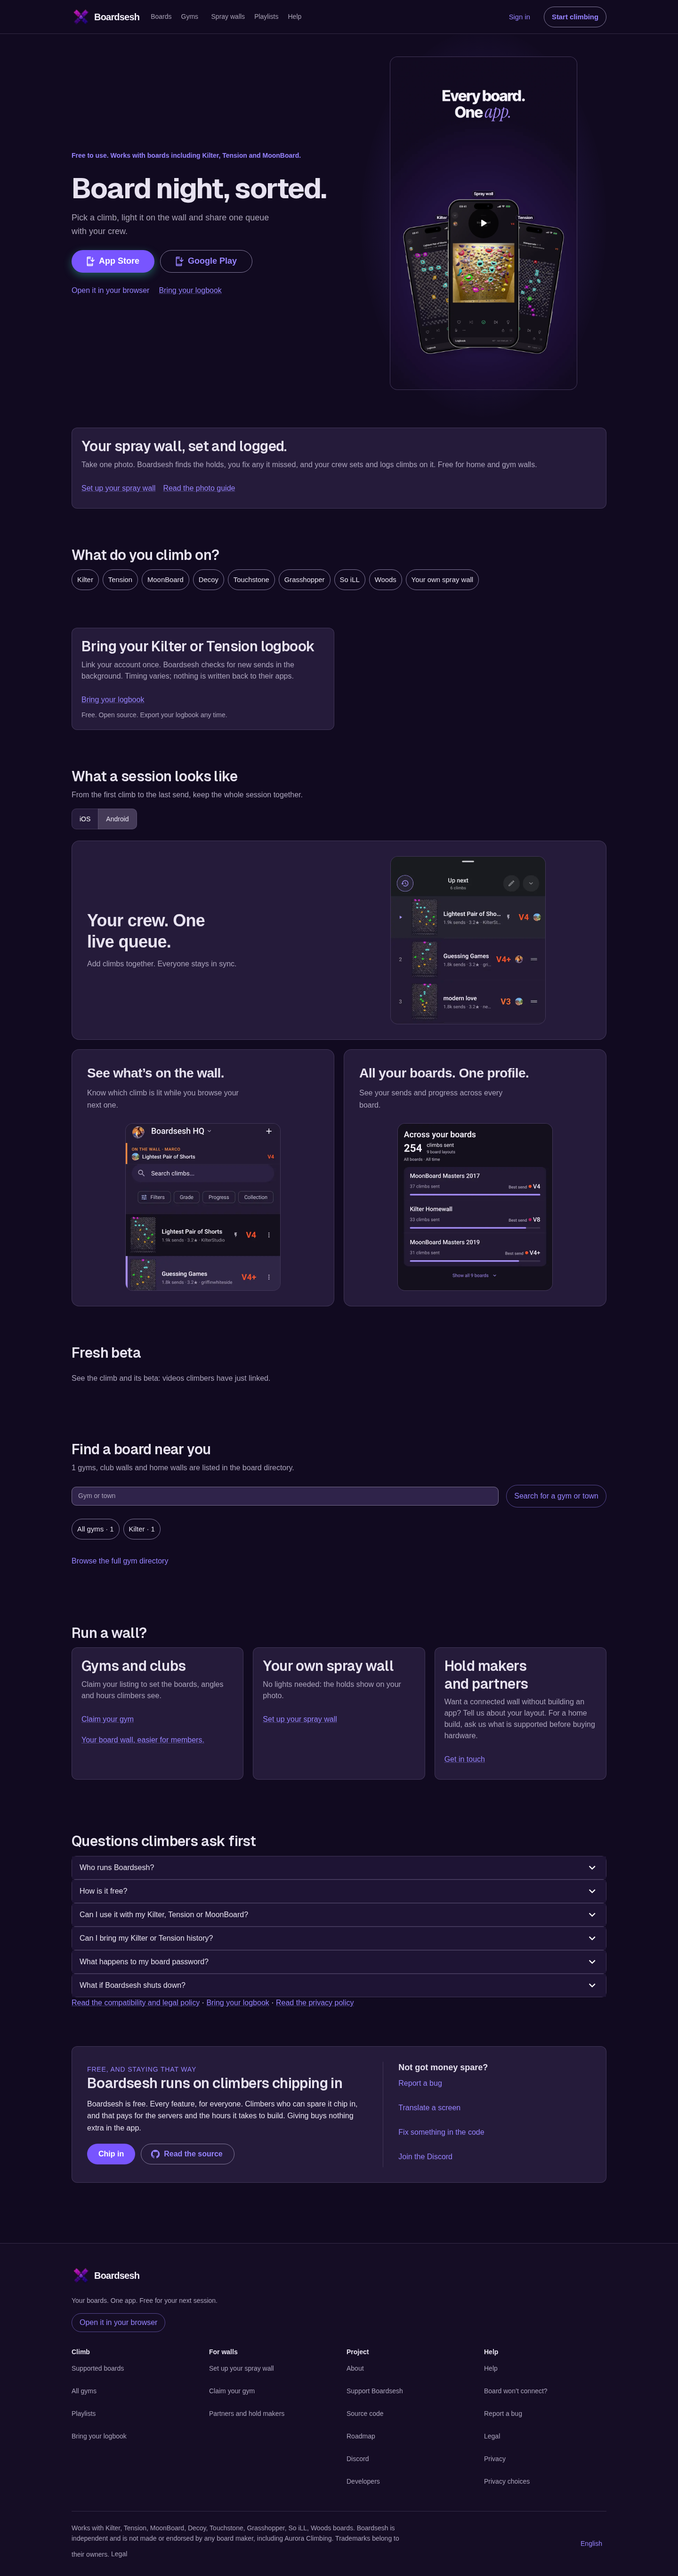
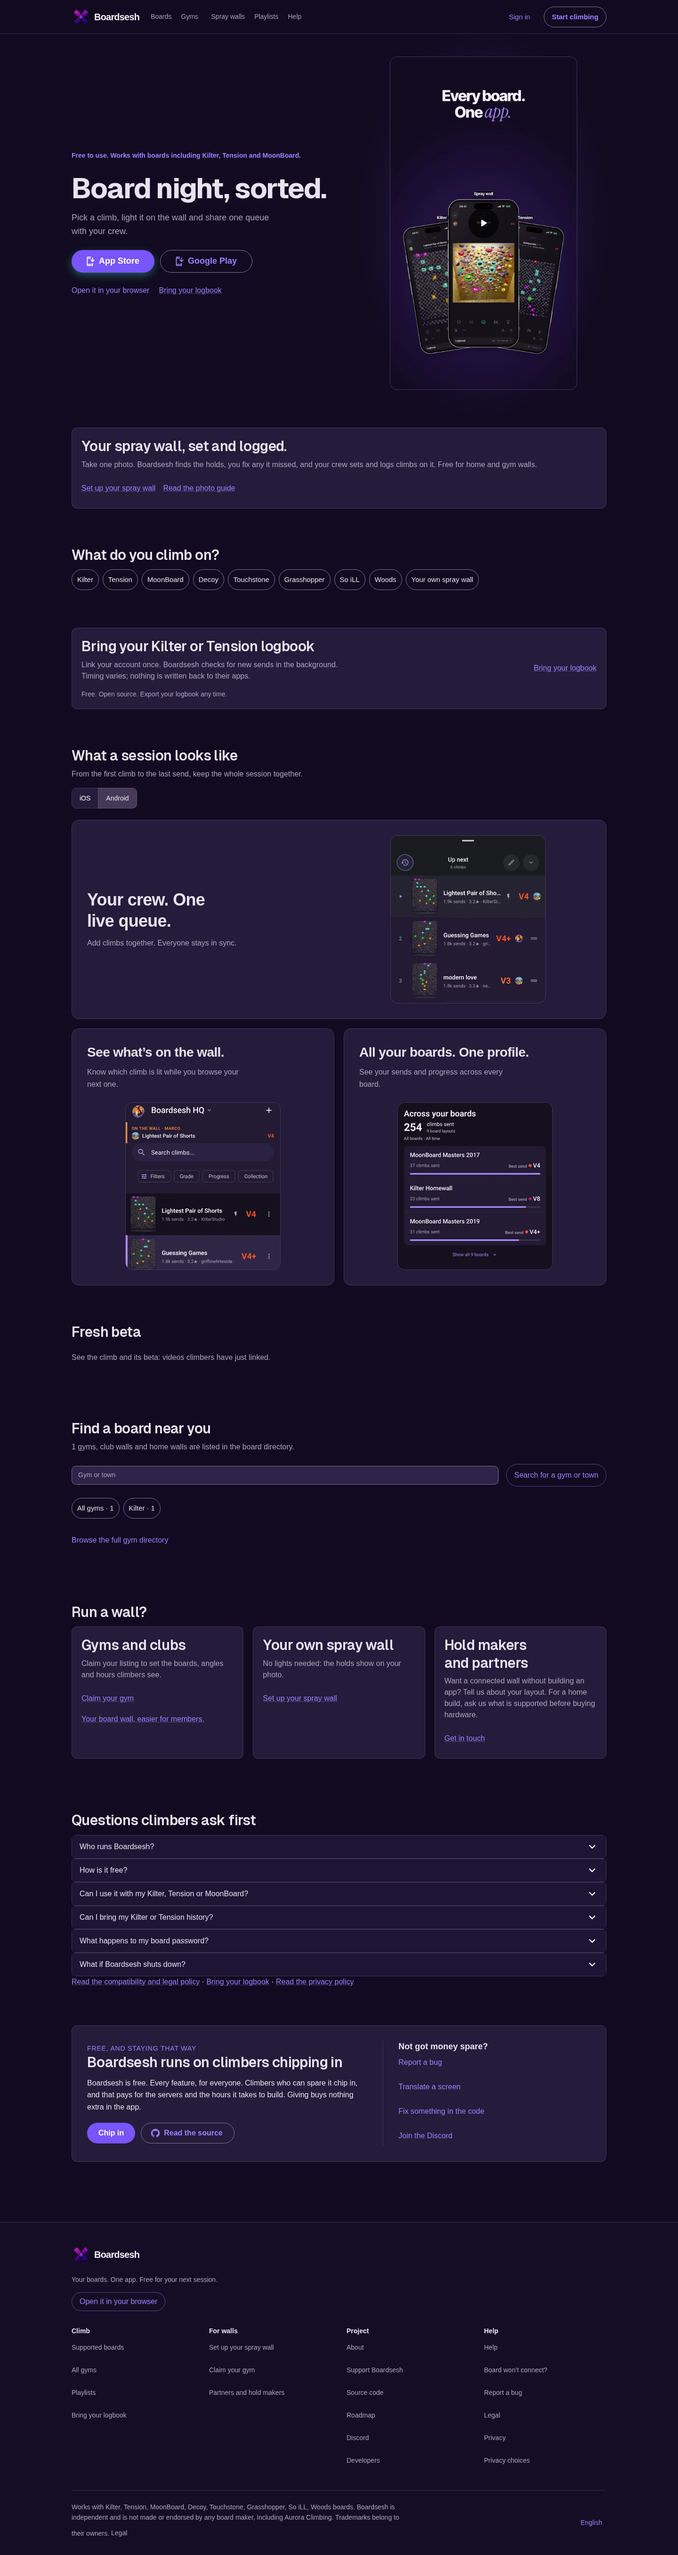
fix(web): complete the logbook import band

diff --git a/packages/web/app/home-page-content.tsx b/packages/web/app/home-page-content.tsx
@@ -196,18 +196,16 @@ export default function HomePageContent({
           />
         </Box>
       </PageSection>
-      <Box className={styles.journeyGrid}>
-        <PageCard>
-          <PageSection title={website('importTitle')} lead={website('importBody')}>
-            <MuiLink component={LocaleLink} href="/bring-your-logbook" sx={LINK_TARGET}>
-              {website('importLink')}
-            </MuiLink>
-            <Typography variant="body2" color="text.secondary">
-              {website('trust')}
-            </Typography>
-          </PageSection>
-        </PageCard>
-      </Box>
+      <PageCard>
+        <PageSection title={website('importTitle')} lead={website('importBody')} className={styles.importBand}>
+          <MuiLink component={LocaleLink} href="/bring-your-logbook" sx={LINK_TARGET} className={styles.importAction}>
+            {website('importLink')}
+          </MuiLink>
+          <Typography variant="body2" color="text.secondary">
+            {website('trust')}
+          </Typography>
+        </PageSection>
+      </PageCard>
       {featureStrip}
       <HomeRecentBetaSection initialRecentBeta={initialRecentBeta} />
       {heroProof ? (

diff --git a/packages/web/app/home-page-content.module.css b/packages/web/app/home-page-content.module.css
@@ -132,10 +132,25 @@
   left: 23.5%;
 }
 
-.journeyGrid {
+.importBand {
   display: grid;
-  grid-template-columns: repeat(2, minmax(0, 1fr));
-  gap: var(--spacing-5);
+  grid-template-columns: minmax(0, 1fr) auto;
+  column-gap: var(--spacing-10);
+  align-items: center;
+}
+
+.importBand > h2,
+.importBand > p {
+  grid-column: 1;
+}
+
+.importBand > p {
+  max-width: 64ch;
+}
+
+.importAction {
+  grid-column: 2;
+  grid-row: 1 / 4;
 }
 
 .wallGrid {
@@ -198,7 +213,10 @@
     gap: var(--spacing-2) var(--spacing-4);
   }
 
-  .journeyGrid,
+  .importBand {
+    display: block;
+  }
+
   .wallGrid {
     grid-template-columns: minmax(0, 1fr);
   }

diff --git a/docs/www-refresh/screenshots/README.md b/docs/www-refresh/screenshots/README.md
@@ -76,3 +76,5 @@ The final compiled [populated-fixture homepage](final-public-review-homepage-bud
 Application source `6189e0f108cd39acaf0ad5119ff46b64bd566541` passes all 65 required repository typecheck/build tasks. Seven focused hero, video, About, preview, shell and locale suites pass 262 tests. The existing public-phone suite passes twenty cases; the two real-pointer cases pass separately after explicit reduced-motion emulation. The final [compiled homepage fixture](visual-restoration-homepage-budget.json) passes at 37,281 gzip bytes with twenty beta rows against 60,000 bytes.
 
 The new guards were tested against broken committed-source variants and then restored. Removing About's preview resources produces five failures for missing translated platform-group names; restoring the selector passes all five. Removing the desktop layout-centering fix makes the pointer test fail at hover because the moving target is intercepted by the video; restoring the fix passes both pointer cases. The original source bytes were restored in finally blocks and the working tree was clean afterward. Astra independently reviewed the actual code, pointer mechanism, supported Playwright API and current-main integration.
+
+The final Home full-page captures also include Astra's approved full-width logbook band. [Measured layout](import-band-geometry.json) confirms its width matches the hero at 390, 844 and 1440px, with the action right of the copy on desktop and heading/body/link/assurance preserved in phone order. German tablet text also fits. This replaces the visually orphaned half-width card without changing copy or destination. About captures remain unchanged.

diff --git a/docs/www-refresh/decisions.md b/docs/www-refresh/decisions.md
@@ -125,3 +125,5 @@ The owner rejected the Home and About after-images at fcd4a5d821 and explicitly 
 - After the owner merged #7879, #7882 and #7885 and retargeted #7883 to main, Astra recommended preserving the current root tip and using a three-way squash integration into fresh main. A plain rebase across the campaign's side-parent histories could duplicate squashed patches or discard merge resolutions. Audit the final main diff and retain the remaining #7878 dependency until it lands. No agent merges a PR.
 
 Astra independently audited the current-main integration: all 52 newer main paths remain byte-identical to main, and every root-owned path matches the reviewed visual revision. The independent reviewer also approved the supported Playwright media-emulation correction and actual pointer tests. The required integrated run passed all 65 repository typecheck/build tasks.
+
+Astra's final full-page review recommended replacing the orphaned half-width logbook card with one full-width import band. On desktop, readable copy stays left and the existing logbook link sits right; phones retain the original heading, body, link and assurance order. This uses the same copy, real assets and destination, and resolves the impression that a companion card is missing.
